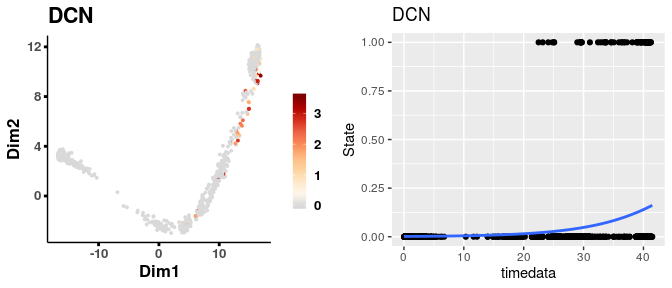
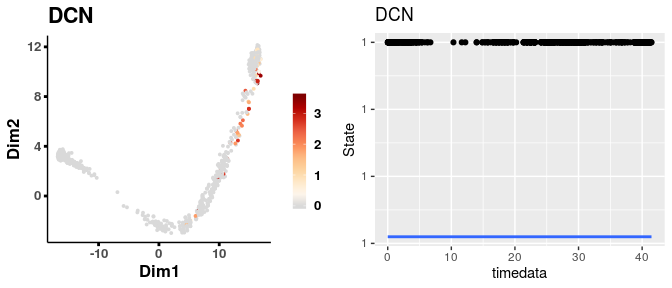
update readme

diff --git a/README.md b/README.md
@@ -23,9 +23,10 @@ packages.
 
 ``` r
 list.of.packages <- c("SingleCellExperiment", "Biobase", "fastglm", "ggplot2", "monocle",
-                      "plyr", "RColorBrewer", "ggrepel", "ggridges", "gridExtra", "devtools")
+                      "plyr", "RColorBrewer", "ggrepel", "ggridges", "gridExtra", "devtools",
+                      "mixtools")
 
-## for package "fastglm", "ggplot2", "plyr", "RColorBrewer", "ggrepel", "ggridges", "gridExtra"
+## for package "fastglm", "ggplot2", "plyr", "RColorBrewer", "ggrepel", "ggridges", "gridExtra", "mixtools"
 new.packages <- list.of.packages[!(list.of.packages %in% installed.packages()[,"Package"])]
 if(length(new.packages)) install.packages(new.packages)
 
@@ -91,14 +92,14 @@ expression plots) into SingleCellExperiment object as
 follows.
 
 ``` r
-## create SingleCellExperiment object with log-normalized single cell data
-sce <- SingleCellExperiment(assays = List(expdata = logexpdata))
-## add pseudo-time information
-colData(sce)$Pseudotime <- cell_pseudotime
-## add dimensionality reductions, e.g. PCA, UMAP, tSNE
-pca <- prcomp(t(assays(sce)$expdata), scale. = FALSE)
-rd_PCA <- pca$x[,1:2]
-reducedDims(sce) <- SimpleList(PCA = rd_PCA)
+### create SingleCellExperiment object with log-normalized single cell data
+#sce <- SingleCellExperiment(assays = List(expdata = logexpdata))
+### add pseudo-time information
+#colData(sce)$Pseudotime <- cell_pseudotime
+### add dimensionality reductions, e.g. PCA, UMAP, tSNE
+#pca <- prcomp(t(assays(sce)$expdata), scale. = FALSE)
+#rd_PCA <- pca$x[,1:2]
+#reducedDims(sce) <- SimpleList(PCA = rd_PCA)
 ```
 
 ### Convert from trajectory results
@@ -134,6 +135,16 @@ sce_p2 <- convert_monocle2(monocle2_obj = cardiac_monocle2,
                            states = c(3,2,5), expdata = logexpdata)
 ```
 
+If we are only interested in the trajectory within a certain range of
+pseudotime, function `subset_pseudotime` can be used to subset the
+SingleCellExperiment object accordingly, followed by filtering out lowly
+expressed genes.
+
+``` r
+### Subset cells to pseudotime range from 10 to 25
+#sce_p1_subset <- subset_pseudotime(sce_p1, min_time = 10, max_time = 25, minexp = 0, mincells = 10)
+```
+
 In Part I, we will apply GeneSwitches on a single trajectory, Path1, to
 demonstrate the general workflow and functions. Comparison of
 GeneSwitches results from two trajectories (Path1 & 2) will be shown in
@@ -144,28 +155,35 @@ Part II.
 ### I-1. Binarize gene expression
 
 Since we focus on the genes that are either switched on or off, we first
-binarize the gene expression data into 1(on) or 0(off) state using a
-global threshold. We plot a histogram of expression of all the genes in
-all cells and look for a break between the zero and expressed
-distributions to identify the global threshold.
+binarize the gene expression data into 1(on) or 0(off) state. To achieve
+this, for each gene, we fit a mixture model of two gaussian
+distributions to the input gene expression to calculates gene-specific
+thresholds for binarization. Prior to fitting, we add gaussian noise
+with zero mean and 0.1 standard deviation to the gene expression, which
+ensures numerical stability in the fitting of the gene expression. Genes
+that do not have a distinct bimodal “on-off” distribution are then
+removed. This step may take 2 minutes for 2000 cells using 3 cores.
 
 ``` r
-# check the threshold for binarization
-h <- hist(assays(sce_p1)$expdata, breaks = 200, plot = FALSE)
-{plot(h, freq = FALSE, xlim = c(0,2), ylim = c(0,1), main = "Histogram of gene expression", 
-     xlab = "Gene expression", col = "darkgoldenrod2", border = "grey")
-abline(v=0.2, col="blue")}
+# binarize gene expression using gene-specific thresholds
+sce_p1 <- binarize_exp(sce_p1, ncores = 3)
 ```
 
-<img src="man/figures/README-binarization_threshold-1.png" style="display: block; margin: auto;" />
-
-In this example, we choose 0.2 (blue line, also set as default) as the
-threshold.
+Alternatively, we can use a global threshold for fast binarization. We
+plot a histogram of expression of all the genes in all cells and look
+for a break between the zero and expressed distributions to identify the
+global threshold.
 
 ``` r
-# binarize gene expression
-bn_cutoff <- 0.2
-sce_p1 <- binarize_exp(sce_p1, binarize_cutoff = bn_cutoff)
+### check the threshold for binarization
+#h <- hist(assays(sce_p1)$expdata, breaks = 200, plot = FALSE)
+#{plot(h, freq = FALSE, xlim = c(0,2), ylim = c(0,1), main = "Histogram of gene expression",
+#xlab = "Gene expression", col = "darkgoldenrod2", border = "grey")
+#abline(v=0.2, col="blue")}
+
+###In this example, we choose 0.2 (blue line, also set as default) as the threshold.
+#bn_cutoff <- 0.2
+#sce_p1 <- binarize_exp(sce_p1, fix_cutoff = TRUE, binarize_cutoff = bn_cutoff)
 ```
 
 ### I-2. Fit logistic regression & estimate switching time
@@ -179,7 +197,7 @@ inflation.
 
 ``` r
 ## fit logistic regression and find the switching pseudo-time point for each gene
-## with downsampling. This step takes around 1 mins
+## with downsampling. This step takes less than 1 mins
 sce_p1 <- find_switch_logistic_fastglm(sce_p1, downsample = TRUE, show_warning = FALSE)
 ```
 
@@ -223,7 +241,7 @@ plots if
 needed.
 
 ``` r
-plot_gene_exp(sce_p1, geneofi = "VIM", reduction = "monocleRD", downsample = T)
+plot_gene_exp(sce_p1, geneofi = "VIM", reduction = "monocleRD", downsample = F)
 ```
 
 <img src="man/figures/README-plotexp-1.png" style="display: block; margin: auto;" />
@@ -256,7 +274,7 @@ switching time.
 
 ``` r
 plot_pathway_density(switch_pw_reduce[1:10,], sg_pw, orderbytime = TRUE)
-#> Picking joint bandwidth of 2.2
+#> Picking joint bandwidth of 2.5
 ```
 
 <img src="man/figures/README-pathways_ridge_plots-1.png" style="display: block; margin: auto;" />
@@ -268,7 +286,7 @@ development.
 
 ``` r
 sg_vis <- filter_switchgenes(sce_p1, topnum = 50, pathway_name = c("HALLMARK_MYOGENESIS",
-                                                                   "GO_CARDIAC_MUSCLE_TISSUE_DEVELOPMENT"))
+                                                                "GO_CARDIAC_MUSCLE_TISSUE_DEVELOPMENT"))
 plot_timeline_ggplot(sg_vis, timedata=sce_p1$Pseudotime, txtsize=3)
 ```
 
@@ -345,6 +363,7 @@ Similarly, we can check the gene expression plots for the two paths.
 gn <- "DCN"
 p <- plot_gene_exp(sce_p1, geneofi = gn, reduction = "monocleRD", 
                    downsample = FALSE, fitting = TRUE)
+#> Warning: glm.fit: algorithm did not converge
 ```
 
 <img src="man/figures/README-plot_exp1-1.png" style="display: block; margin: auto;" />
